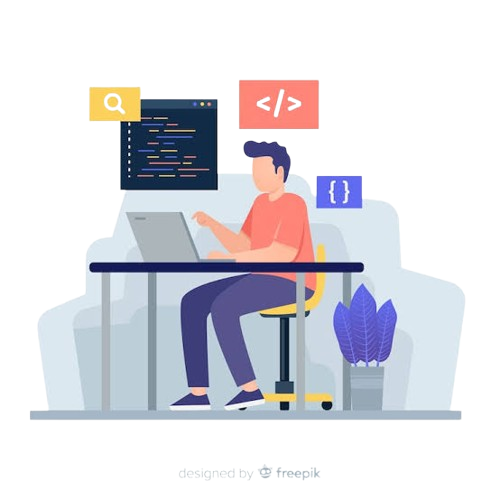
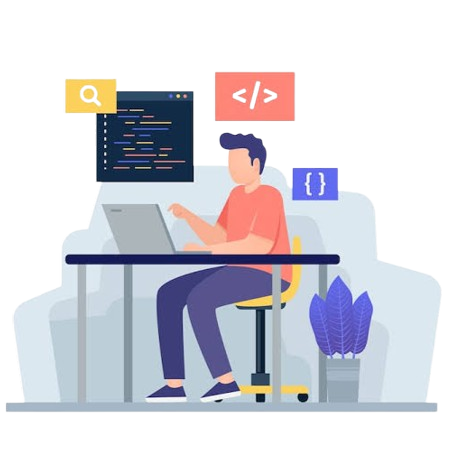
updated the app

diff --git a/components/home/HomeHero.tsx b/components/home/HomeHero.tsx
@@ -80,7 +80,6 @@ type Phase = 'in' | 'out' | 'enter';
 export default function HomeHero(): JSX.Element {
   const [index, setIndex] = useState(0);
   const [phase, setPhase] = useState<Phase>('in');
-  const [paused, setPaused] = useState(false);
   const timeouts = useRef<ReturnType<typeof setTimeout>[]>([]);
 
   const goTo = useCallback((next: number) => {
@@ -94,12 +93,12 @@ export default function HomeHero(): JSX.Element {
     timeouts.current.push(t1);
   }, []);
 
-  // Auto-advance
+  // Auto-advance (always running)
   useEffect(() => {
-    if (paused || phase !== 'in') return;
+    if (phase !== 'in') return;
     const timer = setTimeout(() => goTo((index + 1) % slides.length), INTERVAL_MS);
     return () => clearTimeout(timer);
-  }, [index, paused, phase, goTo]);
+  }, [index, phase, goTo]);
 
   // Cleanup pending timeouts on unmount
   useEffect(() => {
@@ -124,26 +123,22 @@ export default function HomeHero(): JSX.Element {
         : '-translate-x-8 scale-95 opacity-0';
 
   return (
-    <section
-      className="relative flex min-h-[85vh] items-center bg-white dark:bg-[#1f2228]"
-      onMouseEnter={() => setPaused(true)}
-      onMouseLeave={() => setPaused(false)}
-    >
-      <div className="relative z-10 mx-auto grid w-full max-w-6xl grid-cols-1 content-center gap-x-16 gap-y-6 px-6 py-16 lg:grid-cols-2 lg:py-24">
-        {/* 1. Title (top on mobile, left column on desktop) */}
-        <div className="order-1 flex min-h-[6rem] items-end justify-center text-center lg:col-start-1 lg:row-start-1 lg:min-h-[11.5rem] lg:justify-start lg:text-left">
+    <section className="relative flex items-start bg-white lg:min-h-[85vh] lg:items-center dark:bg-[#1f2228]">
+      <div className="relative z-10 mx-auto grid w-full max-w-6xl grid-cols-1 content-center gap-x-16 gap-y-4 px-6 pb-12 pt-4 lg:grid-cols-2 lg:gap-y-6 lg:py-24">
+        {/* 1. Title (below the image on mobile, left column on desktop) */}
+        <div className="order-2 flex min-h-[6rem] items-start justify-center text-center lg:col-start-1 lg:row-start-1 lg:min-h-[11.5rem] lg:items-end lg:justify-start lg:text-left">
           <h1
             aria-live="polite"
-            className={`text-3xl font-bold leading-tight text-zinc-900 transition-all duration-500 ease-out motion-reduce:transition-none sm:text-4xl lg:text-5xl dark:text-white ${textMotion}`}
+            className={`text-3xl font-bold leading-tight text-zinc-900 transition-all duration-500 ease-out sm:text-4xl lg:text-5xl dark:text-white ${textMotion}`}
           >
             {slide.title} <span className="text-orange-500">{slide.accent}</span>
           </h1>
         </div>
 
-        {/* 2. Image (under the title on mobile, right column on desktop) */}
-        <div className="order-2 flex items-center justify-center lg:col-start-2 lg:row-span-2 lg:row-start-1 lg:justify-end">
+        {/* 2. Image (top on mobile, right column on desktop) */}
+        <div className="order-1 flex items-center justify-center lg:order-none lg:col-start-2 lg:row-span-2 lg:row-start-1 lg:justify-end">
           <div
-            className={`relative aspect-square w-full max-w-[16rem] transition-all duration-500 ease-out motion-reduce:transition-none sm:max-w-sm lg:max-w-md ${imageMotion}`}
+            className={`relative aspect-square w-full max-w-[16rem] transition-all duration-500 ease-out sm:max-w-sm lg:max-w-md ${imageMotion}`}
           >
             <Image
               src={slide.image}
@@ -159,7 +154,7 @@ export default function HomeHero(): JSX.Element {
         {/* 3. Paragraph, CTAs, dots, highlights */}
         <div className="order-3 text-center lg:col-start-1 lg:row-start-2 lg:text-left">
           <p
-            className={`mx-auto mb-8 min-h-[7rem] max-w-xl text-lg text-zinc-600 transition-all delay-100 duration-500 ease-out motion-reduce:transition-none md:text-xl lg:mx-0 lg:min-h-[6rem] dark:text-zinc-300 ${textMotion}`}
+            className={`mx-auto mb-8 min-h-[7rem] max-w-xl text-lg text-zinc-600 transition-all delay-100 duration-500 ease-out md:text-xl lg:mx-0 lg:min-h-[6rem] dark:text-zinc-300 ${textMotion}`}
           >
             {slide.text}
           </p>
